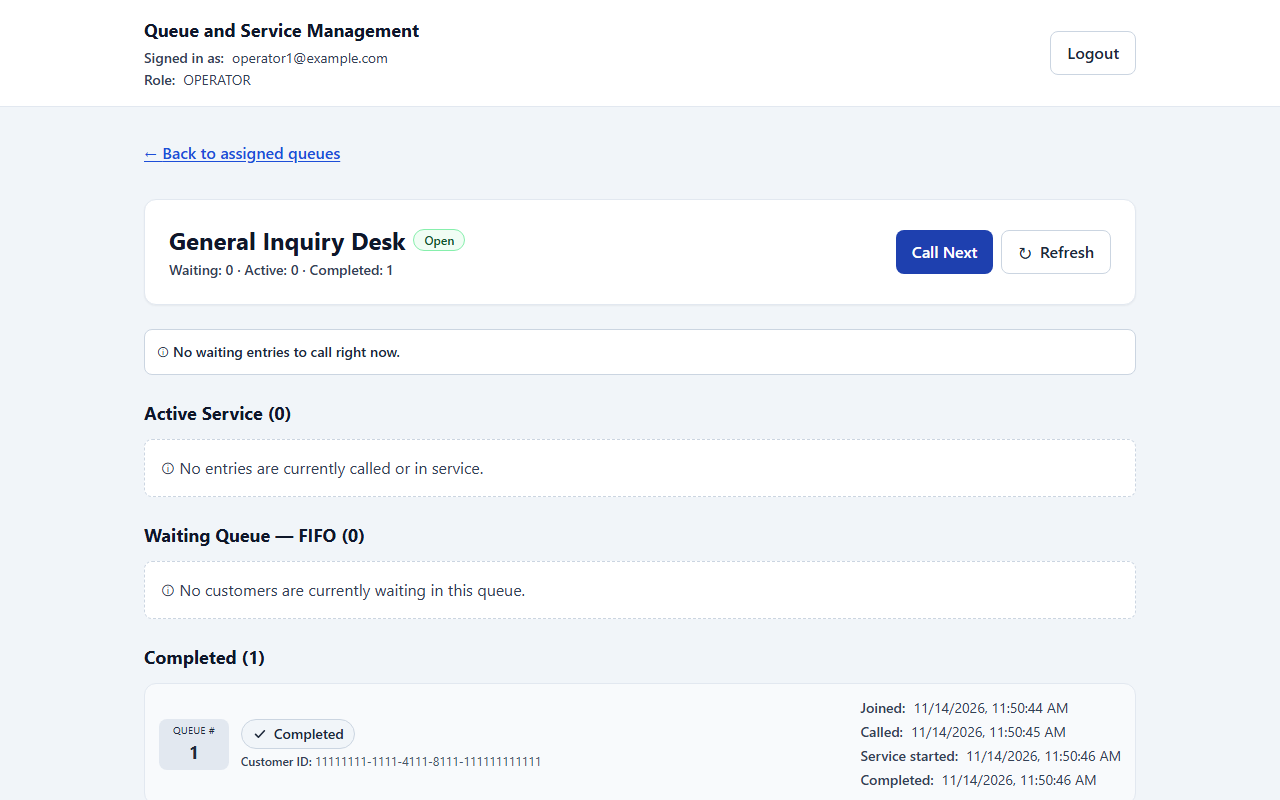
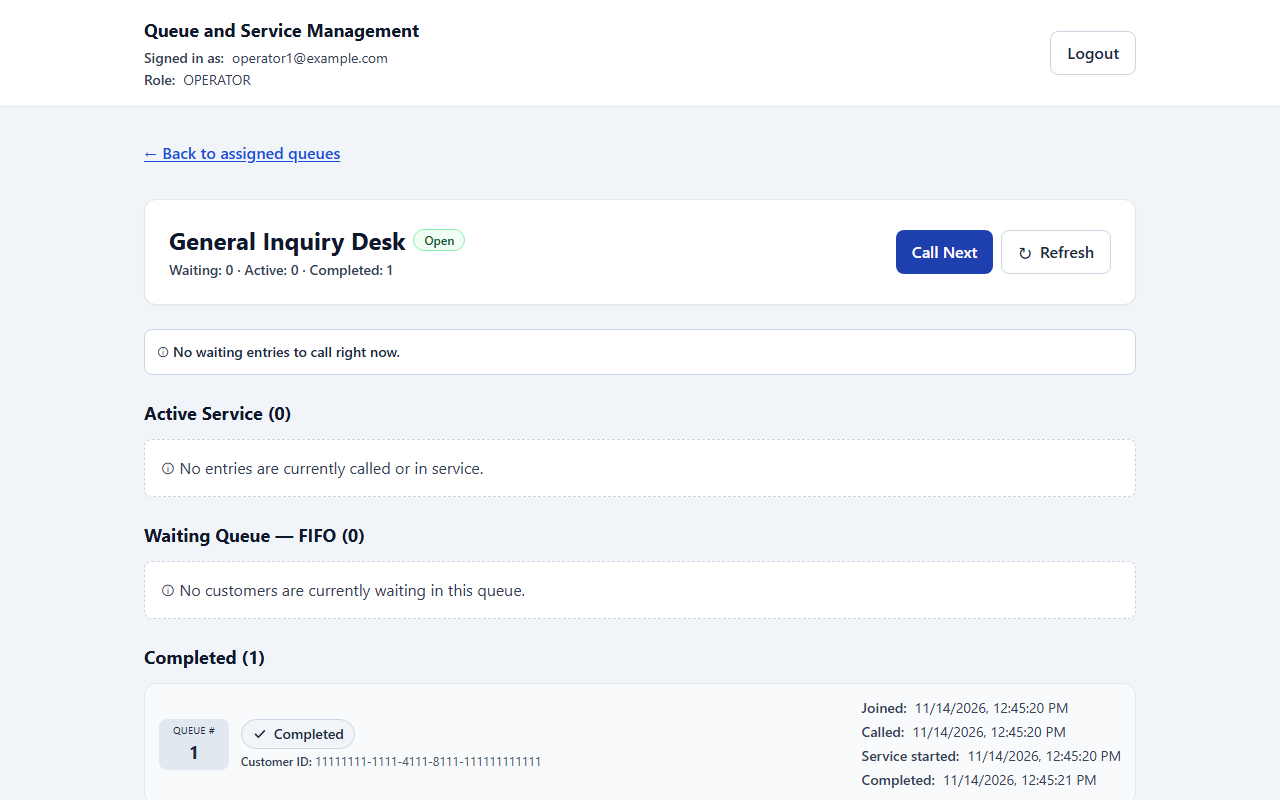
docs(tests): record PERF-001, REL-001, keyboard and multi-browser results (#7)
- PERF-001 and REL-001 marked PASSED from measured runs (evidence
  perf-001.txt, rel-001.txt); FLOW-009, FLOW-010 and UI-001 now verified in
  Chromium, Firefox and WebKit
- final round: server 118, client 77, E2E 34 passed + 2 skipped (WebKit
  keyboard, reason documented) in each of two consecutive runs
- keyboard walkthrough findings, spec gap 3 (focus after actions),
  updated not-verified list; note on the 5432/5433 port in tests.md §12
- refreshed screenshots and evidence README; traceability NFR-04/05

Changed region(s): [[0.6562, 0.875, 0.875, 1.0]]

diff --git a/docs/sprints/sprint-1/tests.md b/docs/sprints/sprint-1/tests.md
@@ -57,12 +57,12 @@ Use the standard API error envelope and the Sprint 1 contract in [../srs.md](../
 | CONCURRENCY-002 | Duplicate active entry race | only one active row survives under concurrent duplicate joins | Database integration | **PASSED** (#4, `tests/queue-registration.test.ts`) |
 | CONCURRENCY-003 | Call-next race | concurrent call-next requests claim different entries correctly | Database integration | **PASSED** (#6, `tests/operator-workflow.test.ts`) |
 | CONCURRENCY-004 | Stale concurrent mutation | stale mutation returns conflict response without corrupting state | Database integration | **PASSED** (#6, `tests/operator-workflow.test.ts`) |
-| PERF-001 | Local performance targets | p95 read and mutation timings meet Sprint 1 local targets | Performance | Pending — not run in #7: no 1,000-entry dataset and no 100-request p95 measurement were executed (see §13) |
-| REL-001 | Commit durability | successful mutation persists after commit and survives restart validation | Database integration | Pending — not run in #7: no application/database restart check was executed (see §13) |
-| UI-001 | Responsive core workflows | pages remain usable at 360 px and 1280 px without horizontal overflow | Browser E2E | **PASSED** (#7, Playwright Chromium, `e2e/tests/responsive.spec.ts`: all six customer and operator screens at 360 × 800 and 1280 × 800, two consecutive runs; see §13) |
+| PERF-001 | Local performance targets | p95 read and mutation timings meet Sprint 1 local targets | Performance | **PASSED** (#7, `server/tests/nfr/perf-001.ts`: 1,000-entry dataset, 100 timed requests per operation; worst read p95 109.7 ms ≤ 500, worst mutation p95 257.9 ms ≤ 1,000; see §13.9) |
+| REL-001 | Commit durability | successful mutation persists after commit and survives restart validation | Database integration | **PASSED** (#7, `server/tests/nfr/rel-001.ts`: rows visible on a separate connection right after each 2xx; API and PostgreSQL SIGKILLed, WAL crash recovery, data identical after restart; see §13.9) |
+| UI-001 | Responsive core workflows | pages remain usable at 360 px and 1280 px without horizontal overflow | Browser E2E | **PASSED** (#7, Playwright Chromium + Firefox + WebKit, `e2e/tests/responsive.spec.ts`: all six customer and operator screens at 360 × 800 and 1280 × 800, two consecutive runs; see §13) |
 | SETUP-001 | Reproducible local setup | clean checkout can provision required test accounts and queues | Manual verification | **PASSED** (Verified in `tests/seed.test.ts` & clean checkout) |
-| FLOW-009 | Customer E2E flow | login, join queue, view own detail | E2E | **PASSED** (#7, Playwright Chromium, `e2e/tests/customer-flow.spec.ts` S1 and S5; see §13) |
-| FLOW-010 | Operator E2E flow | login, call, start, complete | E2E | **PASSED** (#7, Playwright Chromium, `e2e/tests/operator-flow.spec.ts` S4, plus S5 from the customer side; see §13) |
+| FLOW-009 | Customer E2E flow | login, join queue, view own detail | E2E | **PASSED** (#7, Playwright Chromium + Firefox + WebKit, `e2e/tests/customer-flow.spec.ts` S1 and S5; see §13) |
+| FLOW-010 | Operator E2E flow | login, call, start, complete | E2E | **PASSED** (#7, Playwright Chromium + Firefox + WebKit, `e2e/tests/operator-flow.spec.ts` S4, plus S5 from the customer side; see §13) |
 
 ## 3. Detailed test cases for critical behaviors
 
@@ -735,7 +735,7 @@ This test plan maps to FR-01 through FR-13, BR-01 through BR-12, and NFR-01 thro
 ## 12. Execution Evidence and Automated Test Results (Issue #6 Operator Queue Management Workflow)
 
 **Execution Date:** 2026-11-13  
-**Server suite:** Vitest v2.1.9 (`npm test`) against the isolated PostgreSQL 16 test database (`qms_test_db` on `localhost:5432`)  
+**Server suite:** Vitest v2.1.9 (`npm test`) against the isolated PostgreSQL 16 test database (`qms_test_db` on `localhost:5432`) — *note added in #7: on this machine the configured test database (`server/.env.test`) is on `127.0.0.1:5433` (the `qms-postgres` container), as recorded in §9 and §13; `5432` does not match that configuration*  
 **Server result:** **109 passed / 109 total (100% Pass across 9 test files)** (91 Issue #5 baseline + 18 new Issue #6 operator tests)  
 **Client suite:** Vitest v2.1.9 + jsdom + React Testing Library (`npm run test:client`)  
 **Client result:** **71 passed / 71 total (100% Pass across 4 test files)** (58 Issue #5 baseline + 13 new Issue #6 operator UI tests)  
@@ -780,7 +780,7 @@ This test plan maps to FR-01 through FR-13, BR-01 through BR-12, and NFR-01 thro
 
 **Execution Date:** 2026-11-14
 **Branch:** `feature/sprint1/7-integration-testing` (from `sprint1-staging` at `68d818f`)
-**Environment:** Windows 11 Home (10.0.26200), Node v22.20.0, PostgreSQL 16.15 (`qms-postgres` Docker container on `127.0.0.1:5433`, test database `qms_test_db`), Playwright 1.63.0 with Chrome for Testing 153.0.8010.12 (headless Chromium)
+**Environment:** Windows 11 Home (10.0.26200), Node v22.20.0, PostgreSQL 16.15 (`qms-postgres` Docker container on `127.0.0.1:5433`, test database `qms_test_db`), Playwright 1.63.0 with Chrome for Testing 153.0.8010.12 (Chromium), plus the Playwright Firefox and WebKit builds for 1.63.0, all headless; Intel i5-11400H, 16 GiB RAM
 **Coverage / gap analysis:** [`evidence/issue7-coverage.md`](./evidence/issue7-coverage.md). **Screenshots:** [`evidence/README.md`](./evidence/README.md)
 
 ### 13.1 Commands and results
@@ -794,8 +794,13 @@ Every number below comes from a command run in this session. Step 0 is the regre
 | `npm run test:server` | **109 passed / 0 failed / 0 skipped** (9 files) | **118 passed / 0 failed / 0 skipped** (10 files: 109 + 9 new) |
 | `npm run test:client` | **71 passed / 0 failed / 0 skipped** (4 files) | **77 passed / 0 failed / 0 skipped** (5 files: 71 + 6 new) |
 | `npm run build` | exit 0 | exit 0 |
-| `npm run test:e2e` run 1 | — (no E2E existed) | **10 passed / 0 failed / 0 skipped / 0 flaky**, 130.5 s |
-| `npm run test:e2e` run 2 (immediately after run 1) | — | **10 passed / 0 failed / 0 skipped / 0 flaky**, 130.0 s |
+| `npm run test:e2e` (Chromium only), run 1 / run 2 | — (no E2E existed) | **10 passed / 0 failed / 0 skipped / 0 flaky** each (130.5 s, 130.0 s); first round, before the keyboard spec and other browsers were added |
+| `npm run test:e2e:all-browsers` final run 1 | — | **36 tests: 34 passed / 0 failed / 2 skipped / 0 flaky**, 186.8 s |
+| `npm run test:e2e:all-browsers` final run 2 (immediately after run 1) | — | **36 tests: 34 passed / 0 failed / 2 skipped / 0 flaky**, 182.1 s |
+| `npm run test:perf --workspace=server` | — | **PASSED**: 11/11 operations within target (§13.9) |
+| `npm run test:rel --workspace=server` | — | **PASSED** (§13.9) |
+
+The final round (migrate, typecheck, server 118, client 77, build, then E2E twice in all three browsers) was run after the last code commit. The 2 skipped tests are the keyboard walkthroughs in WebKit (§13.10). The 12 E2E tests × 3 browsers make up the 36.
 
 ¹ The first Step 0 attempt failed because the `qms-postgres` container was not running (`P1001`). It passed after Docker Desktop was started. `npm ci` also removed the generated Prisma client, so `npm run prisma:generate` was run before the baseline server suite. Both are environment steps; no code changed.
 
@@ -844,7 +849,7 @@ The database has no CHECK constraint on lifecycle timestamps, so these SQL check
 - `[PASS]` Anonymous visitors to `/operator/queues/:id` and `/customer/entries/:id` go to `/login` without the banner. The only request is the `/api/auth/me` probe.
 - The existing client suites were not modified.
 
-### 13.4 Browser E2E (Playwright, Chromium), 10 passed in each of two consecutive runs
+### 13.4 Browser E2E (Playwright): S1–S9 passed in Chromium, Firefox and WebKit, in each of two consecutive final runs ("×2" below refers to those runs)
 
 | # | Test | Result | What it proves |
 |---|---|---|---|
@@ -872,11 +877,11 @@ S1–S8 are the eight scenarios in Issue #7. S9 is an extra item that verifies U
 
 | Test ID | Before | After | Evidence |
 |---|---|---|---|
-| FLOW-009 | Pending | **PASSED** | Browser S1 and S5, both runs |
-| FLOW-010 | Pending | **PASSED** | Browser S4 and S5, both runs |
-| UI-001 | Pending (operator screens) | **PASSED** | Browser S9 at 360 and 1280, both runs; this covers the customer screens again as well as the operator screens |
-| PERF-001 | Pending | **Pending** | Not run. NFR-04 needs a seeded 1,000-entry dataset and 100 requests per operation with p95 measured; neither was done. The suite durations above are not performance measurements. |
-| REL-001 | Pending | **Pending** | Not run. No application or database restart validation was performed. |
+| FLOW-009 | Pending | **PASSED** | Browser S1 and S5, both final runs, Chromium + Firefox + WebKit |
+| FLOW-010 | Pending | **PASSED** | Browser S4 and S5, both final runs, Chromium + Firefox + WebKit |
+| UI-001 | Pending (operator screens) | **PASSED** | Browser S9 at 360 and 1280, both final runs, Chromium + Firefox + WebKit; this covers the customer screens again as well as the operator screens |
+| PERF-001 | Pending | **PASSED** | `npm run test:perf --workspace=server`, all 11 operations within target (§13.9, `evidence/perf-001.txt`) |
+| REL-001 | Pending | **PASSED** | `npm run test:rel --workspace=server`, crash-restart of API and PostgreSQL with identical data afterwards (§13.9, `evidence/rel-001.txt`) |
 
 ### 13.6 Defect log
 
@@ -886,11 +891,10 @@ Two first-run E2E failures were **test** errors and were fixed in the test code.
 
 ### 13.7 Not verified / manual checks left
 
-- Only Chromium was run. Firefox, WebKit/Safari, and mobile browsers were not tested.
+- Browsers: Chromium, Firefox and WebKit were run through Playwright on Windows. Real Safari on macOS/iOS, and mobile browsers, were not tested. The keyboard walkthrough was not run in WebKit (see §13.10).
 - No physical touch device was used. The 360 px run used a touch-enabled emulated context only.
 - No screen-reader listening test (NVDA, JAWS, VoiceOver, TalkBack). The live-region text was asserted in the DOM (S5), not heard.
-- No keyboard-only walkthrough was repeated in #7. The last one is §11, customer screens only.
-- PERF-001 and REL-001 were not run (see 13.5).
+- PERF-001 is a single sequential run on one machine. No concurrent-load or throughput test was done.
 - No CI run: the repository has no `.github/` workflows. All results are from one local Windows machine.
 - The Issue #7 Acceptance Criteria and Definition of Done checklists could not be read in this session (GitHub CLI not authenticated), so they were not ticked here.
 
@@ -898,4 +902,51 @@ Two first-run E2E failures were **test** errors and were fixed in the test code.
 
 1. **Wrong-role navigation is not specified.** ui-spec §7 defines only the unauthenticated case ("Redirect to `/login` or show a clear access message"). It does not say what a signed-in customer opening `/operator…`, or an operator opening `/customer…`, should see. The implementation (`ProtectedRoute.tsx`) silently redirects to the user's own home, and E2E S6 asserts that behaviour. This was recorded, not decided; the spec owner should confirm whether a silent redirect is the intended "access message".
 2. **The customer status refresh interval is not specified.** ui-spec §5.1 step 7 requires that the customer "sees updated status values". The 10 s polling interval is an implementation decision (Issue #5 decision 2, `usePolling.ts`), not a spec value. E2E S5 allows 15 s per transition based on that decision.
+3. **Focus after an action is not specified.** ui-spec §8.1 requires visible focus but does not say where focus goes after Join, Call Next, Start or Complete. The keyboard walkthrough (§13.10) records where it lands and does not assert it.
+
+### 13.9 PERF-001 and REL-001 (measured)
+
+**PERF-001 / NFR-04: PASSED.** Command: `npm run test:perf --workspace=server` (`server/tests/nfr/perf-001.ts`).
+- Setup: the test database is reset and seeded with **1,000 WAITING entries** from 1,000 distinct customers in the OPEN queue, and the dataset only grows during the run (1,105 entries at the end).
+- Requests: the real Express app runs on a local ephemeral port, and requests go over real TCP with Node `fetch`, real session cookies and CSRF tokens. Requests are sequential. Each operation gets 5 untimed warm-ups, then **100 timed requests**, measured on the client from send until the full body is read.
+- Host: Intel i5-11400H, 12 threads, 16 GiB RAM, Windows 11, Node v22.20.0. Database: PostgreSQL 16.15 in Docker.
+
+| Operation | Kind | p50 ms | p95 ms | max ms | Target p95 | Result |
+|---|---|---|---|---|---|---|
+| `POST /api/auth/login` | mutation | 249.1 | 257.9 | 270.0 | 1,000 | PASS |
+| `GET /api/auth/me` | read | 11.0 | 12.9 | 15.6 | 500 | PASS |
+| `GET /api/queues` | read | 13.2 | 16.0 | 17.0 | 500 | PASS |
+| `GET /api/me/queue-entries` | read | 13.8 | 16.7 | 19.6 | 500 | PASS |
+| `GET /api/me/queue-entries/:id` (aheadCount over 1,000) | read | 19.0 | 23.0 | 27.4 | 500 | PASS |
+| `GET /api/operator/queues` | read | 15.7 | 18.5 | 19.1 | 500 | PASS |
+| `GET /api/operator/queues/:id/entries` (≥ 1,000 rows) | read | 85.7 | 109.7 | 116.9 | 500 | PASS |
+| `POST /api/queues/:id/entries` (join) | mutation | 32.0 | 37.4 | 40.8 | 1,000 | PASS |
+| `POST …/call-next` | mutation | 27.8 | 33.3 | 35.8 | 1,000 | PASS |
+| `POST …/start` | mutation | 23.4 | 29.5 | 36.6 | 1,000 | PASS |
+| `POST …/complete` | mutation | 25.7 | 30.8 | 34.8 | 1,000 | PASS |
+
+Limits: this is one local run on one machine with sequential requests. It does not measure concurrent load or throughput. Login time is dominated by bcrypt by design.
+
+**REL-001 / NFR-05: PASSED.** Command: `npm run test:rel --workspace=server` (`server/tests/nfr/rel-001.ts`); log in `evidence/rel-001.txt`.
+1. PostgreSQL durability settings were read from the server: `fsync=on`, `synchronous_commit=on`, `full_page_writes=on`, `wal_level=replica`. The script fails if any of the first three is off.
+2. The compiled API (`node dist/server.js`, `NODE_ENV=test`) was started as a separate process. Over HTTP it ran customer1 join → call-next → start → complete, then a customer2 join. **Right after each 2xx response**, a separate DB connection read the row, and it already matched the response exactly ("response follows commit").
+3. The API process was **SIGKILLed**. Then the PostgreSQL container was **SIGKILLed** (`docker kill --signal=SIGKILL qms-postgres`) and started again. The PostgreSQL log confirmed crash recovery: "database system was not properly shut down; automatic recovery in progress", followed by WAL redo.
+4. The API was started again, and the **pre-restart session cookies** were reused.
+   - The COMPLETED entry, with all 4 timestamps, matched the pre-restart response exactly.
+   - The WAITING entry matched exactly, and the operator list was unchanged.
+   - `lastQueueNumber` (2) and the session-row count were unchanged.
+   - The next join received number 3, continuing from the persisted counter.
+- Side effect: the `qms-postgres` container also hosts the development database `qms_db`, so that database was crash-restarted too. Nothing in it was modified.
+
+### 13.10 Keyboard-only walkthrough and other browsers
+
+`e2e/tests/keyboard.spec.ts` walks both workflows using only Tab, Shift+Tab, Enter, the arrow keys and Home/End. Every control it reaches must match `:focus-visible` and show a ring (box-shadow or outline).
+- **Customer:** keyboard sign-in; tabs with ArrowRight (wraps around), End and Home; Join; View details; Refresh; Back; Logout.
+- **Operator:** keyboard sign-in; Manage queue; Call Next; Start Service; Complete Service; Back. Disabled buttons are correctly skipped in the tab order.
+- **Focus after actions (recorded, not asserted):** after Join, focus falls back to `<body>`, as already noted in §11. "View details" is still reachable by keyboard. The landing point after each operator action is listed in the run's HTML/JSON report annotations.
+
+The whole E2E suite now also runs in **Firefox** and **WebKit** (`npm run test:e2e:all-browsers`).
+- Every test passes in all three browsers, with 2 exceptions: the two keyboard walkthroughs are **skipped in WebKit** with the reason given in the test.
+- WebKit keeps links (`<a>`) out of the Tab order by default, like Safari with "Press Tab to highlight each item" off. Both Tab and Alt+Tab were tried in Playwright's WebKit on Windows, and neither reached a link. This is browser behaviour, not an application defect, and those two tests are reported as skipped, not passed.
+- Evidence screenshots are taken from Chromium only.
 

diff --git a/docs/sprints/sprint-1/evidence/README.md b/docs/sprints/sprint-1/evidence/README.md
@@ -1,8 +1,10 @@
 # Sprint 1 Test Evidence (Issue #7)
 
-Every PNG in this folder is written by the Playwright suite (`npm run test:e2e`). Each run overwrites them under the same names. They come from headless Chromium (Playwright 1.63.0, Chrome for Testing 153.0.8010.12) against the isolated test database. Flow screenshots show the 1280 × 800 viewport; `responsive-*` screenshots are full-page. The screenshots contain only seeded test accounts and test UUIDs. No cookie, token, connection string or secret appears in them. The password field on the login screenshot is masked.
+Every PNG in this folder is written by the Playwright suite (`npm run test:e2e`, or `npm run test:e2e:all-browsers`). Each run overwrites them under the same names. They come from the Chromium project only (Playwright 1.63.0, Chrome for Testing 153.0.8010.12, headless). Firefox and WebKit run the same assertions but write no screenshots. All runs use the isolated test database. Flow screenshots show the 1280 × 800 viewport; `responsive-*` screenshots are full-page. The screenshots contain only seeded test accounts and test UUIDs. No cookie, token, connection string or secret appears in them. The password field on the login screenshot is masked.
 
-- `e2e-run.txt`: counts-only summary of the two consecutive E2E runs recorded for Issue #7. It is written by `e2e/helpers/summary-reporter.ts`.
+- `e2e-run.txt`: counts-only summary of the two consecutive final E2E runs (Chromium, Firefox, WebKit). It is written by `e2e/helpers/summary-reporter.ts`.
+- `perf-001.txt`: PERF-001 / NFR-04 p95 measurements (`npm run test:perf --workspace=server`).
+- `rel-001.txt`: REL-001 / NFR-05 crash-restart durability log (`npm run test:rel --workspace=server`).
 - `issue7-coverage.md`: gap analysis and scenario map.
 
 ## Screenshots
@@ -27,6 +29,8 @@ Every PNG in this folder is written by the Playwright suite (`npm run test:e2e`)
 | `forbidden-operator-on-customer.png` | S6 | RBAC (UI) | Operator who opened `/customer/entries/:id` ends on `/operator` |
 | `session-expired-banner.png` | S7 | AUTH-005 (UI), ui-spec §7 | `/login` with "Session expired. Please sign in again." after server-side session revocation |
 | `cross-customer-not-found.png` | S8 | QUEUE-006, RBAC-005 | customer2 on customer1's entry URL: "We couldn't find that queue entry." and no entry data |
+| `keyboard-01-customer-join-focused.png` | Keyboard walkthrough (customer) `keyboard.spec.ts` | ui-spec §8.1 | Join Queue reached by Tab with a visible focus ring |
+| `keyboard-02-operator-start-focused.png` | Keyboard walkthrough (operator) | ui-spec §8.1 | Start Service reached by Tab with a visible focus ring |
 | `responsive-360-01-login.png`, `responsive-1280-01-login.png` | S9 `responsive.spec.ts` | UI-001 | `/login` |
 | `responsive-360-02-customer-queues.png`, `responsive-1280-02-customer-queues.png` | S9 | UI-001 | `/customer`, Available Queues |
 | `responsive-360-03-customer-tickets.png`, `responsive-1280-03-customer-tickets.png` | S9 | UI-001 | `/customer`, My Active Tickets (one WAITING, one COMPLETED) |
@@ -34,7 +38,7 @@ Every PNG in this folder is written by the Playwright suite (`npm run test:e2e`)
 | `responsive-360-05-operator-dashboard.png`, `responsive-1280-05-operator-dashboard.png` | S9 | UI-001 | `/operator` |
 | `responsive-360-06-operator-queue.png`, `responsive-1280-06-operator-queue.png` | S9 | UI-001 | `/operator/queues/:id` with the Active, Waiting and Completed sections all filled |
 
-## Measured layout (S9, both runs identical)
+## Measured layout (S9, Chromium; both runs identical)
 
 | Screen | 360 × 800: scrollWidth / clientWidth / innerWidth | 1280 × 800: scrollWidth / clientWidth / innerWidth |
 |---|---|---|

diff --git a/docs/traceability.md b/docs/traceability.md
@@ -46,8 +46,8 @@ F-06 is the cross-cutting verification responsibility for this entire baseline; 
 | NFR-01 | Store passwords only as salted adaptive hashes; do not return or log credentials, hashes, or session secrets. | F-02; F-06 verifies | 1 | SEC-001, AUTH-001, AUTH-002, AUTH-004 | Inspect configured hash method, API responses, and logs during login and invalid-credential tests. |
 | NFR-02 | Enforce authorization server-side and require CSRF protection for cookie-authenticated mutations. | F-02, F-05; F-06 verifies | 1 | SEC-002, AUTH-003, AUTH-005, RBAC-001–RBAC-004 | Exercise protected endpoints with missing/expired sessions, unauthorized roles/assignments, and missing/invalid CSRF tokens. Automated (#7): `server/tests/integration-sprint1.test.ts` §1–§2, `client/src/test/integration-guards.test.tsx`, `e2e/tests/authorization.spec.ts`. |
 | NFR-03 | Prevent duplicate queue numbers, active entries, and double-claims under concurrent load. | F-01, F-03, F-05; F-06 verifies | 1 | CONCURRENCY-001–CONCURRENCY-004 | Run database-backed parallel joins, duplicate joins, call-next operations, and stale mutations; assert uniqueness and valid state. Automated (#7): `server/tests/integration-sprint1.test.ts` §4 (mixed races + SQL invariants). |
-| NFR-04 | Meet local performance targets on a seeded 1,000-entry dataset. | F-03–F-05; F-06 verifies | 1 | PERF-001 | Execute 100 requests per operation against the local database and measure p95: reads <= 500 ms, mutations <= 1,000 ms. |
-| NFR-05 | Return mutation success only after the database commit is durable. | F-01, F-05; F-06 verifies | 1 | REL-001 | Verify mutation responses follow commit and that committed records remain after application/database restart validation. |
+| NFR-04 | Meet local performance targets on a seeded 1,000-entry dataset. | F-03–F-05; F-06 verifies | 1 | PERF-001 | Execute 100 requests per operation against the local database and measure p95: reads <= 500 ms, mutations <= 1,000 ms. Automated (#7): `server/tests/nfr/perf-001.ts` (`npm run test:perf --workspace=server`). |
+| NFR-05 | Return mutation success only after the database commit is durable. | F-01, F-05; F-06 verifies | 1 | REL-001 | Verify mutation responses follow commit and that committed records remain after application/database restart validation. Automated (#7): `server/tests/nfr/rel-001.ts` (`npm run test:rel --workspace=server`). |
 | NFR-06 | Keep customer and operator flows usable without horizontal overflow at 360 px and 1280 px. | F-04, F-05; F-06 verifies | 1 | UI-001 | Run browser E2E checks for the core flows at both viewport widths and assert no page-level horizontal overflow. Automated (#7): `e2e/tests/responsive.spec.ts`. |
 | NFR-07 | Reproduce local setup and seed required test accounts and queues from a clean checkout. | F-01; F-06 verifies | 1 | SETUP-001 | Follow documented setup from a clean checkout and confirm required seeded records are created without manual intervention. |
 | NFR-08 | Support customer and operator workflows without exposing private or unassigned queue information. | F-02, F-04, F-05; F-06 verifies | 1 | QUEUE-006, RBAC-004, RBAC-005, FLOW-009, FLOW-010 | Verify customer ownership/privacy, operator assignment restrictions, and both customer/operator E2E workflows. Automated (#7): `e2e/tests/customer-flow.spec.ts`, `e2e/tests/operator-flow.spec.ts`, `e2e/tests/authorization.spec.ts`, `server/tests/integration-sprint1.test.ts`. |

diff --git a/docs/sprints/sprint-1/evidence/issue7-coverage.md b/docs/sprints/sprint-1/evidence/issue7-coverage.md
@@ -5,7 +5,8 @@ This table maps each Issue #7 scope item to the tests that already existed on `s
 New test files:
 - Server: `server/tests/integration-sprint1.test.ts` (9 tests, real HTTP + real PostgreSQL)
 - Client: `client/src/test/integration-guards.test.tsx` (6 tests, jsdom)
-- Browser: `e2e/tests/*.spec.ts` (10 Playwright tests, Chromium)
+- Browser: `e2e/tests/*.spec.ts` (12 Playwright tests × Chromium, Firefox, WebKit)
+- NFR: `server/tests/nfr/perf-001.ts` (PERF-001) and `server/tests/nfr/rel-001.ts` (REL-001), standalone scripts outside `npm test`
 
 | # | Issue #7 scope item | Already covered before #7 (test IDs / files) | Gap found | Added in #7 |
 |---|---|---|---|---|
@@ -20,8 +21,8 @@ New test files:
 | 3b | CSRF | SEC-002: join (all variants), operator mutations (missing token only), logout (wrong/other) | Wrong, empty, and another session's token on call-next / start / complete; closed-queue join | Server §2: 6 mutations × 4 bad-token variants → 403, DB and sessions unchanged |
 | 4 | API integration | All server suites | Covered by items 1–3 above | — |
 | 5 | E2E automated tests (8 scenarios) | none (no Playwright before #7) | All | E2E **S1–S8**, plus **S9** (UI-001), which is an extra item and **not** one of the eight issue scenarios |
-| 6 | Regression (backend, frontend, integration, E2E) | Server 109, client 71 (Step 0 baseline, this session) | — | Full re-run recorded in tests.md §13: server 118, client 77, E2E 10 (twice) |
-| 7 | Test evidence including screenshots | Customer-screen notes in tests.md §11 (no image files) | No screenshots in the repo | 30 PNGs + `e2e-run.txt` in this folder (see [README.md](./README.md)) |
+| 6 | Regression (backend, frontend, integration, E2E) | Server 109, client 71 (Step 0 baseline, this session) | — | Full re-run recorded in tests.md §13: server 118, client 77, E2E 34 passed + 2 skipped across 3 browsers (twice), PERF-001 and REL-001 passed |
+| 7 | Test evidence including screenshots | Customer-screen notes in tests.md §11 (no image files) | No screenshots in the repo | 32 PNGs + `e2e-run.txt`, `perf-001.txt`, `rel-001.txt` in this folder (see [README.md](./README.md)) |
 
 ## E2E scenario map
 
@@ -36,6 +37,16 @@ New test files:
 | S7 | Unauthenticated access; session expired mid-use | `authorization.spec.ts` › S7 | AUTH-003, AUTH-005 (UI) |
 | S8 | Cross-customer access | `authorization.spec.ts` › S8 | QUEUE-006, RBAC-005 |
 | S9 (extra) | Responsive at 360 / 1280 px | `responsive.spec.ts` › S9 / UI-001 (×2 viewports) | UI-001 |
+| Extra | Keyboard-only walkthrough, customer and operator | `keyboard.spec.ts` (skipped in WebKit, reason in the test) | ui-spec §8.1 |
+
+All specs run in Chromium, Firefox and WebKit (`npm run test:e2e:all-browsers`).
+
+## NFR checks added after review
+
+| Test ID | Method | File |
+|---|---|---|
+| PERF-001 | 1,000-entry dataset, 5 warm-ups + 100 timed sequential requests per operation, p95 against NFR-04 targets | `server/tests/nfr/perf-001.ts` |
+| REL-001 | Row visible on a separate connection after each 2xx; SIGKILL the API and PostgreSQL, WAL recovery, identical data afterwards | `server/tests/nfr/rel-001.ts` |
 
 ## Deliberately not duplicated
 
